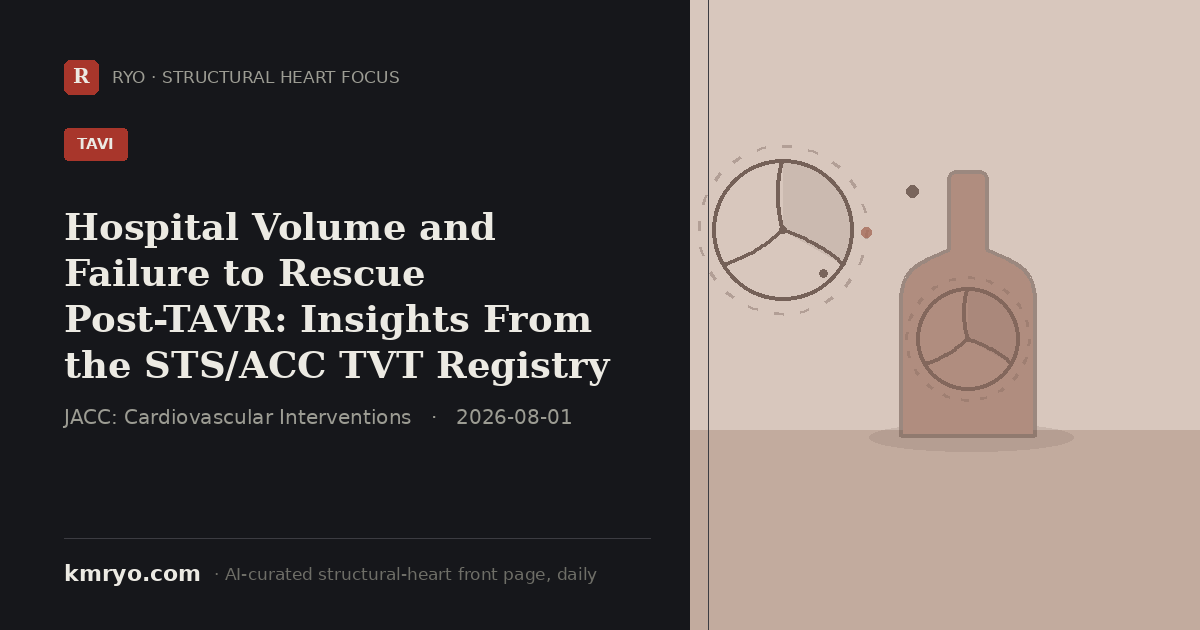
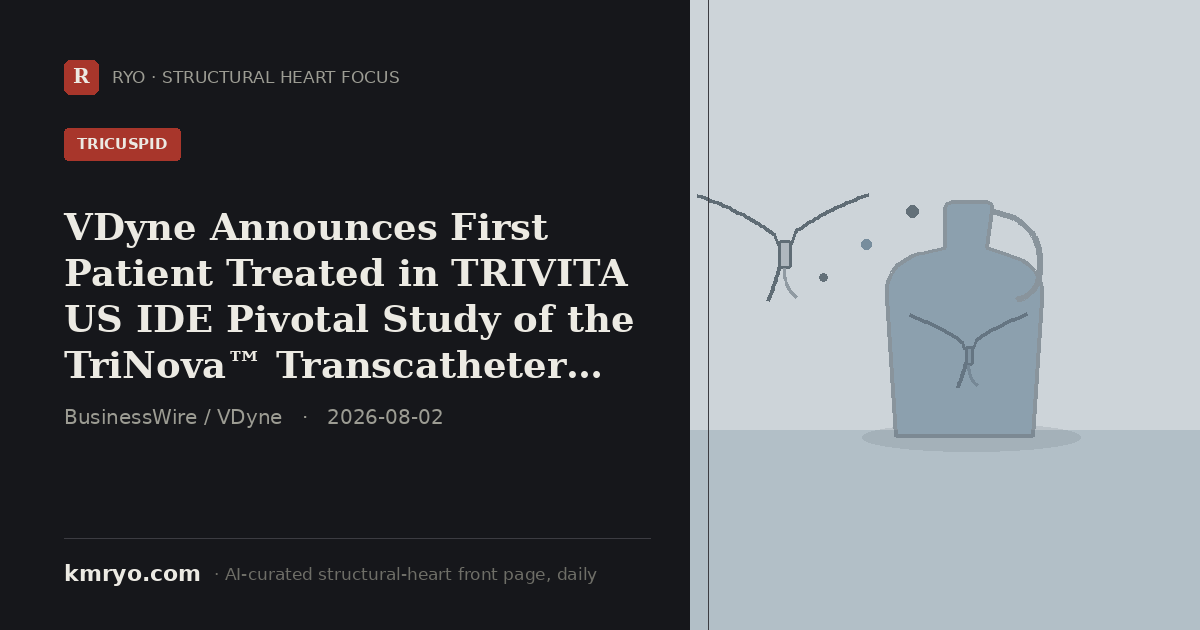
pulse: 2026-08-02 daily update

diff --git a/index.html b/index.html
@@ -6,8 +6,8 @@
 <title>Structural Heart Focus — Daily | Dr. Mi Chen · 千觅量子 RYO</title>
 <meta name="description" content="Structural Heart Focus — the day's most important structural-heart reading (top journals, major meetings and the field's conversation), curated daily by an AI agent from inside the Zurich hybrid room. By Dr. Mi Chen · 千觅量子 RYO.">
 <!-- Social share card. Regenerated daily by the pulse agent (pulse/make_share_card.py); og:title/description updated to the day's top story so LinkedIn/WeChat/X show today's headline, not a static portrait. -->
-<meta property="og:title" content="Hospital Volume and Failure to Rescue Post-TAVR: Insights From the STS/ACC TVT Registry">
-<meta property="og:description" content="A 487,159-patient STS/ACC TVT Registry analysis finds low-volume TAVR centers have higher 30-day mortality and complications, but failure-to-rescue rates are similar across hospital volumes. AI-curated daily by Dr. Mi Chen · 千觅量子 RYO.">
+<meta property="og:title" content="VDyne Announces First Patient Treated in TRIVITA US IDE Pivotal Study of the TriNova™ Transcatheter Tricuspid Valve Replacement System">
+<meta property="og:description" content="VDyne's TriNova becomes the first investigational TTVR device in an actively enrolling head-to-head RCT against Edwards' approved EVOQUE system. AI-curated daily by Dr. Mi Chen · 千觅量子 RYO.">
 <meta property="og:image" content="https://www.kmryo.com/pulse/img/share/card.png">
 <meta property="og:image:width" content="1200">
 <meta property="og:image:height" content="630">
@@ -16,8 +16,8 @@
 <meta property="og:type" content="website">
 <meta property="og:site_name" content="kmryo.com · Structural Heart Focus">
 <meta name="twitter:card" content="summary_large_image">
-<meta name="twitter:title" content="Hospital Volume and Failure to Rescue Post-TAVR: Insights From the STS/ACC TVT Registry">
-<meta name="twitter:description" content="A 487,159-patient STS/ACC TVT Registry analysis finds low-volume TAVR centers have higher 30-day mortality and complications, but failure-to-rescue rates are similar across hospital volumes.">
+<meta name="twitter:title" content="VDyne Announces First Patient Treated in TRIVITA US IDE Pivotal Study of the TriNova™ Transcatheter Tricuspid Valve Replacement System">
+<meta name="twitter:description" content="VDyne's TriNova becomes the first investigational TTVR device in an actively enrolling head-to-head RCT against Edwards' approved EVOQUE system.">
 <meta name="twitter:image" content="https://www.kmryo.com/pulse/img/share/card.png">
[1 lines of base64/hex data omitted]
 <link rel="preconnect" href="https://fonts.googleapis.com">
